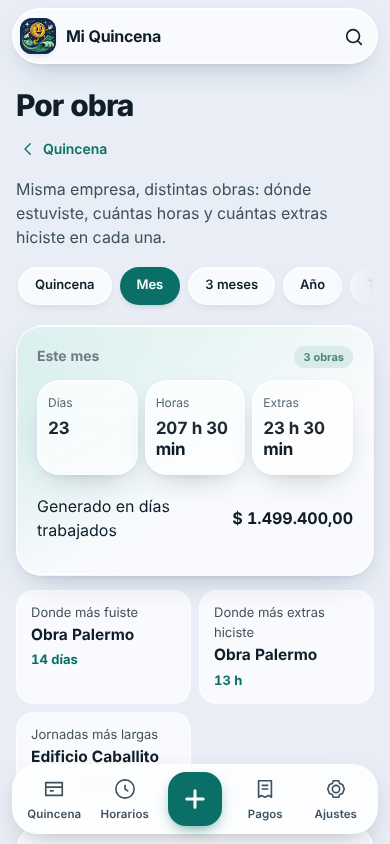
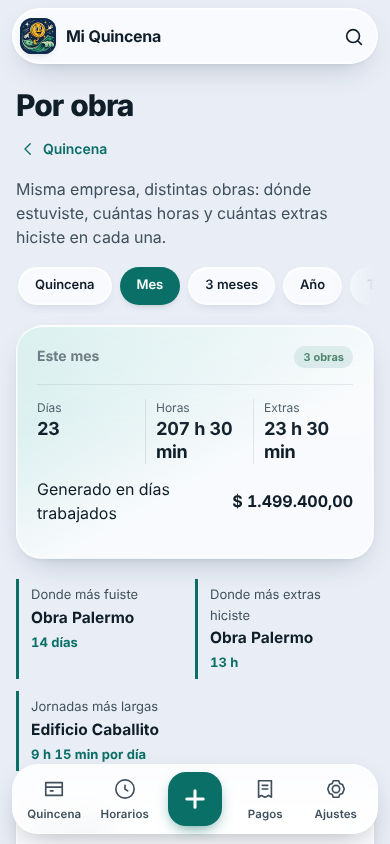
3.11.0: AMOLED legible, menos tarjetas anidadas, botones y ejemplos más claros
Claude-Session: https://claude.ai/code/session_01N4uS5StTCxZM1aYktpgM5w

Changed region(s): [[0.0308, 0.4621, 0.9538, 0.9242], [0.0923, 0.4313, 0.3077, 0.5237]]

diff --git a/app/js/04-forms.js b/app/js/04-forms.js
@@ -199,7 +199,7 @@ async function editRow(date) {
       '<div id="suggest" class="suggest" hidden></div>' +
       '<div id="workFields"><div class="step"><div class="step-h"><b>3</b>¿Dónde?</div><input name="place" type="text" maxlength="200" value="' +
       esc(r.place) +
-      '" placeholder="Escribí la obra o el lugar" aria-label="Lugar u obra" enterkeyhint="next"><div id="placeSug" class="sug-row"></div></div>' +
+      '" placeholder="Ej.: Obra Palermo, Depósito Sur…" aria-label="Lugar u obra" enterkeyhint="next"><div id="placeSug" class="sug-row"></div></div>' +
       '<div class="step"><div class="step-h"><b>4</b>Horario</div><div class="two"><label>Entraste a las<input name="start" type="time" value="' +
       esc(r.start) +
       '"></label><label>Saliste a las<input name="end" type="time" value="' +
@@ -1007,7 +1007,7 @@ function paymentForm(id, amount, key) {
       '</div></div>' +
       '<div class="step"><div class="step-h"><b>2</b>¿Cuánto cobraste?</div><input name="amount" type="number" inputmode="decimal" min="0.01" max="1000000000" step="0.01" value="' +
       esc(p ? p.amount : amount ? Core.round(amount) : '') +
-      '" placeholder="$ 0,00" required aria-label="Importe"><div class="wrap"><button type="button" class="mini" id="payAllBtn"></button></div></div>' +
+      '" placeholder="Ej.: 150000" required aria-label="Importe"><div class="wrap"><button type="button" class="mini" id="payAllBtn"></button></div></div>' +
       '<div class="step"><div class="step-h"><b>3</b>¿Cuándo te lo dieron?</div><div class="date-row"><input name="date" type="date" value="' +
       esc(p ? p.date : t0) +
       '" required aria-label="Fecha del cobro"><button type="button" class="mini" data-pday="' +
@@ -1021,7 +1021,7 @@ function paymentForm(id, amount, key) {
         .join('') +
       '</div><input name="note" type="text" maxlength="2000" value="' +
       esc(p ? p.note : '') +
-      '" placeholder="Detalle" aria-label="Detalle"></div>' +
+      '" placeholder="Detalle (opcional). Ej.: transferencia del viernes" aria-label="Detalle"></div>' +
       '<div class="preview" id="paymentPreview"></div>' +
       formEnd(id ? 'Guardar cambios' : 'Guardar cobro') +
       (id
@@ -1119,13 +1119,19 @@ function adjustmentForm(id) {
     '<h2>Ajuste o adicional</h2><form id="adjustForm">' +
       field('Fecha del período', 'date', 'date', a.date, 'required') +
       field(
-        'Importe (negativo para descuento)',
+        'Importe (con − adelante si es un descuento)',
         'amount',
         'number',
         a.amount,
-        'min="-1000000000" max="1000000000" step="0.01" required',
+        'min="-1000000000" max="1000000000" step="0.01" required placeholder="Ej.: 15000 o -20000"',
       ) +
-      field('Motivo obligatorio', 'note', 'text', a.note, 'required maxlength="2000"') +
+      field(
+        'Motivo',
+        'note',
+        'text',
+        a.note,
+        'required maxlength="2000" placeholder="Ej.: Viáticos, Adelanto, Herramientas"',
+      ) +
       formEnd('Guardar ajuste') +
       (id ? '<button type="button" id="deleteAdjustment" class="danger">Eliminar ajuste</button>' : '') +
       '</form>',
@@ -1318,7 +1324,7 @@ function remindersForm() {
         .map(([k, t, d]) => '<button type="button" class="mini" data-days="' + d.join(',') + '">' + t + '</button>')
         .join('') +
       '</div></fieldset><div class="info">Consejo: poné la hora en que normalmente terminás de trabajar. Si ya cargaste el día, ignorá el aviso.</div></div>' +
-      formEnd('Guardar') +
+      formEnd('Guardar recordatorio') +
       '</form>',
   );
   const f = $('reminderForm');
@@ -1497,7 +1503,7 @@ function specialForm() {
       '</div><button type="button" id="holAdd">' +
       icon('plus') +
       ' Agregar feriado</button>' +
-      formEnd('Guardar') +
+      formEnd('Guardar pago especial') +
       '</form>',
   );
   const draw = () => {
@@ -1598,7 +1604,7 @@ function paydayForm() {
           ':00</option>',
       ).join('') +
       '</select></label><div class="preview" id="pdPv"></div>' +
-      formEnd('Guardar') +
+      formEnd('Guardar días de cobro') +
       '</form>',
   );
   const f = $('pdForm'),
@@ -1644,7 +1650,13 @@ function profileForm() {
   modal(
     '<h2>Tu perfil</h2><p class="muted">Aparece en los recibos, PDF, Excel e imágenes que compartís.</p><form id="profileForm">' +
       field('Nombre y apellido', 'name', 'text', st.name || '', 'maxlength="80" autocomplete="name"') +
-      field('Puesto u oficio', 'job', 'text', st.job || '', 'maxlength="80" placeholder="Ej.: Repartidor, Cajera…"') +
+      field(
+        'Puesto u oficio',
+        'job',
+        'text',
+        st.job || '',
+        'maxlength="80" placeholder="Ej.: Albañil, Electricista, Ayudante…"',
+      ) +
       field('Empleador o empresa', 'employer', 'text', st.employer || '', 'maxlength="80"') +
       formEnd('Guardar perfil') +
       '</form><h3>Tu historial</h3><div class="grid stats"><div class="metric"><small>Jornadas</small><b>' +

diff --git a/app/style.css b/app/style.css
@@ -47,10 +47,11 @@
   --switch-off:color-mix(in srgb,var(--ink) 18%,transparent);
 }
 :root.amoled{
-  --bg:#000;--ink:#f2f5f7;--muted:#a3adb5;--solid:#0b0b0b;
-  --line:#1f1f1f;--hair:#1a1a1a;
-  --glass:#0b0b0b;--glass-strong:#0f0f0f;--glass-deep:#141414;--bar:#0a0a0a;
-  --spec:inset 0 0 0 1px #1f1f1f;--drop:none;--blur:none;
+  /* Negro puro de fondo (ahorra batería en OLED); las tarjetas en gris muy oscuro con borde, para que se distingan */
+  --bg:#000;--ink:#f2f5f7;--muted:#a3adb5;--solid:#121212;
+  --line:#2c2c2c;--hair:#242424;
+  --glass:#121212;--glass-strong:#1a1a1a;--glass-deep:#1e1e1e;--bar:#0c0c0c;
+  --spec:inset 0 0 0 1px #2c2c2c;--drop:none;--blur:none;
   --ambient:0;--hero-shine:transparent;
 }
 /* Tokens derivados: se declaran en body para que se calculen con los valores de
@@ -58,7 +59,7 @@
 body{--nav-bg:var(--bar);--dialog-bg:var(--glass-deep);--backdrop:rgba(6,18,28,.32);
   --hero-bg:linear-gradient(150deg,color-mix(in srgb,var(--accent-2) 22%,var(--glass-strong)),var(--glass) 60%);
   --carry-bg:linear-gradient(150deg,color-mix(in srgb,var(--coral) 26%,var(--glass-strong)),var(--glass))}
-:root.amoled body{--nav-bg:#000;--hero-bg:#0b0b0b;--carry-bg:#140c08;--dialog-bg:#0b0b0b;--backdrop:rgba(0,0,0,.75)}
+:root.amoled body{--nav-bg:#0c0c0c;--hero-bg:linear-gradient(150deg,color-mix(in srgb,var(--accent) 12%,#121212),#121212 60%);--carry-bg:#1c130d;--dialog-bg:#141414;--backdrop:rgba(0,0,0,.75)}
 /* Reducir transparencia: superficies sólidas y sin luz ambiental (solo tokens) */
 .no-glass{--glass:var(--solid);--glass-strong:var(--solid);--glass-deep:var(--solid);--bar:var(--solid);--ambient:0}
 
@@ -493,7 +494,6 @@ dialog::backdrop{background:var(--backdrop);-webkit-backdrop-filter:blur(6px);ba
 #copyShare{margin:4px auto 0}
 
 /* Por obra */
-.stats-hero .grid{margin:12px 0 6px}
 .insights{display:grid;grid-template-columns:repeat(auto-fit,minmax(150px,1fr));gap:8px;margin:0 0 4px}
 .insight{padding:12px 14px;border:1px solid var(--line);border-radius:18px;background:var(--glass)}
 .insight b{display:block;font-size:15.5px;overflow-wrap:anywhere}
@@ -624,3 +624,14 @@ dialog::backdrop{background:var(--backdrop);-webkit-backdrop-filter:blur(6px);ba
 .carry.miss{background:var(--tint)}
 .carry.miss .svg:first-child{color:var(--accent)}
 .carry .svg:last-child{color:var(--muted)}
+
+/* 3.11: menos tarjetas dentro de tarjetas (atención selectiva) */
+.hero-stats{display:grid;grid-template-columns:repeat(3,1fr);gap:8px;margin-top:16px;padding-top:14px;border-top:1px solid var(--hair)}
+.hero-stats small{font-size:12px}
+.hero-stats b{display:block;font-size:18px;letter-spacing:-.02em;line-height:1.3}
+.hero-stats>div+div{padding-left:10px;border-left:1px solid var(--hair)}
+.insights{gap:0;margin:0 0 4px}
+.insight{background:transparent;border:0;border-left:3px solid var(--accent);border-radius:0;padding:6px 12px;margin:6px 0}
+.data-sum{gap:0;margin:8px 0 10px}
+.data-sum>div{background:transparent;border-radius:0;padding:4px 2px}
+.data-sum>div+div{border-left:1px solid var(--hair)}

diff --git a/app/js/03-views.js b/app/js/03-views.js
@@ -341,15 +341,15 @@ function summaryView(s) {
     pct +
     '%</small><strong>' +
     money(s.paid) +
-    '</strong></div></div><button type="button" class="share-btn" data-action="share">' +
-    icon('share') +
-    ' Compartir quincena</button></section><div class="grid"><div class="metric"><small>Jornadas</small><b>' +
+    '</strong></div></div><div class="hero-stats"><div><small>Jornadas</small><b>' +
     s.days +
-    '</b></div><div class="metric"><small>Horas</small><b>' +
+    '</b></div><div><small>Horas</small><b>' +
     compactHours(s.hours) +
-    '</b></div><div class="metric"><small>Extras</small><b>' +
+    '</b></div><div><small>Extras</small><b>' +
     compactHours(s.extra) +
-    '</b></div></div></div><section class="panel recent"><div class="panel-head"><h2>Últimos registros</h2>' +
+    '</b></div></div><button type="button" class="share-btn" data-action="share">' +
+    icon('share') +
+    ' Compartir quincena</button></section></div><section class="panel recent"><div class="panel-head"><h2>Últimos registros</h2>' +
     (rows.length ? '<button class="link" data-go="hours">Ver todos ' + icon('arrow') + '</button>' : '') +
     '</div>' +
     (rows.length
@@ -899,11 +899,11 @@ function statsView() {
         '</span><span class="pill">' +
         list.length +
         (list.length === 1 ? ' obra' : ' obras') +
-        '</span></div><div class="grid"><div class="metric"><small>Días</small><b>' +
+        '</span></div><div class="hero-stats"><div><small>Días</small><b>' +
         tot.days +
-        '</b></div><div class="metric"><small>Horas</small><b>' +
+        '</b></div><div><small>Horas</small><b>' +
         compactHours(tot.hours) +
-        '</b></div><div class="metric"><small>Extras</small><b>' +
+        '</b></div><div><small>Extras</small><b>' +
         compactHours(tot.extra) +
         '</b></div></div>' +
         (state.rules.length

diff --git a/app/js/01-util.js b/app/js/01-util.js
@@ -1,7 +1,7 @@
 // Utilidades: formato, íconos, fechas, colores de acento, carga diferida de librerías y descargas.
 'use strict';
 
-const APP_VERSION = '3.10.1';
+const APP_VERSION = '3.11.0';
 
 const $ = id => document.getElementById(id),
   esc = s =>

diff --git a/CHANGELOG.md b/CHANGELOG.md
@@ -1,5 +1,11 @@
 # Cambios
 
+## 3.11.0
+- **AMOLED:** las tarjetas pasan de casi negro (#0b0b0b) a gris muy oscuro (#121212) con borde visible; el fondo sigue en negro puro para ahorrar batería.
+- **Menos tarjetas (atención selectiva):** Jornadas, Horas y Extras pasan a la tarjeta principal de Quincena y de Por obra; “Donde más fuiste” y el resumen de Tus datos dejan de ser tarjetas dentro de tarjetas. “Últimos registros” entra en la primera pantalla.
+- **Botones que dicen qué hacen:** “Guardar recordatorio”, “Guardar pago especial”, “Guardar días de cobro”.
+- **Ejemplos en los campos:** importe del cobro, detalle, obra, puesto y ajustes.
+
 ## 3.10.1
 - **Tema “Sistema” arreglado en Android:** la app nativa siempre usaba un tema claro, y por eso la parte web nunca se enteraba de que el teléfono estaba en modo oscuro. Ahora hay estilos nocturnos (`values-night*`).
 - **Contraste auditado en 80 combinaciones** (5 temas × 8 acentos × transparencia sí/no) y 12 pantallas, con la norma WCAG. Arreglos: los botones principales en tema claro tenían texto blanco sobre un tono claro (2,9:1 → más de 4,5:1 con todos los acentos); el naranja como texto quedaba en 4,3:1 (ahora es más oscuro).

diff --git a/README.md b/README.md
@@ -9,7 +9,7 @@ Registrás cada día que trabajás y la app calcula sola cuánto generaste, cuá
 
 [![Descargar APK](https://img.shields.io/badge/Descargar-APK%20para%20Android-0a6f66?style=for-the-badge&logo=android&logoColor=white)](https://github.com/kkshiiit/Mi-Quincena/releases/latest)
 [![CI](https://img.shields.io/github/actions/workflow/status/kkshiiit/Mi-Quincena/ci.yml?branch=main&style=for-the-badge&label=tests)](https://github.com/kkshiiit/Mi-Quincena/actions)
-![Versión](https://img.shields.io/badge/versión-3.10.1-152e4d?style=for-the-badge)
+![Versión](https://img.shields.io/badge/versión-3.11.0-152e4d?style=for-the-badge)
 ![Licencia](https://img.shields.io/badge/licencia-GPL--3.0-0a6f66?style=for-the-badge)
 ![Sin internet](https://img.shields.io/badge/sin%20internet-sin%20cuenta-ffc93c?style=for-the-badge)
 
